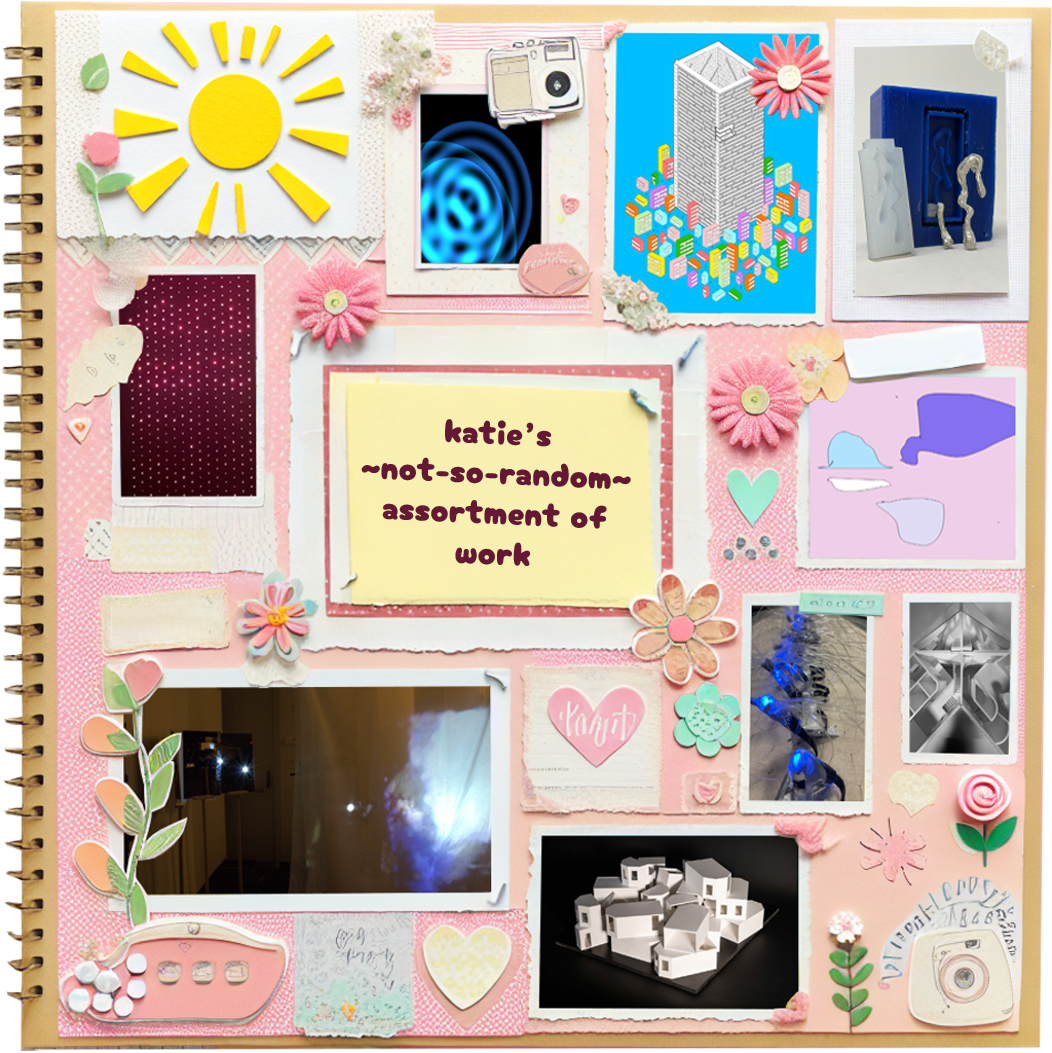
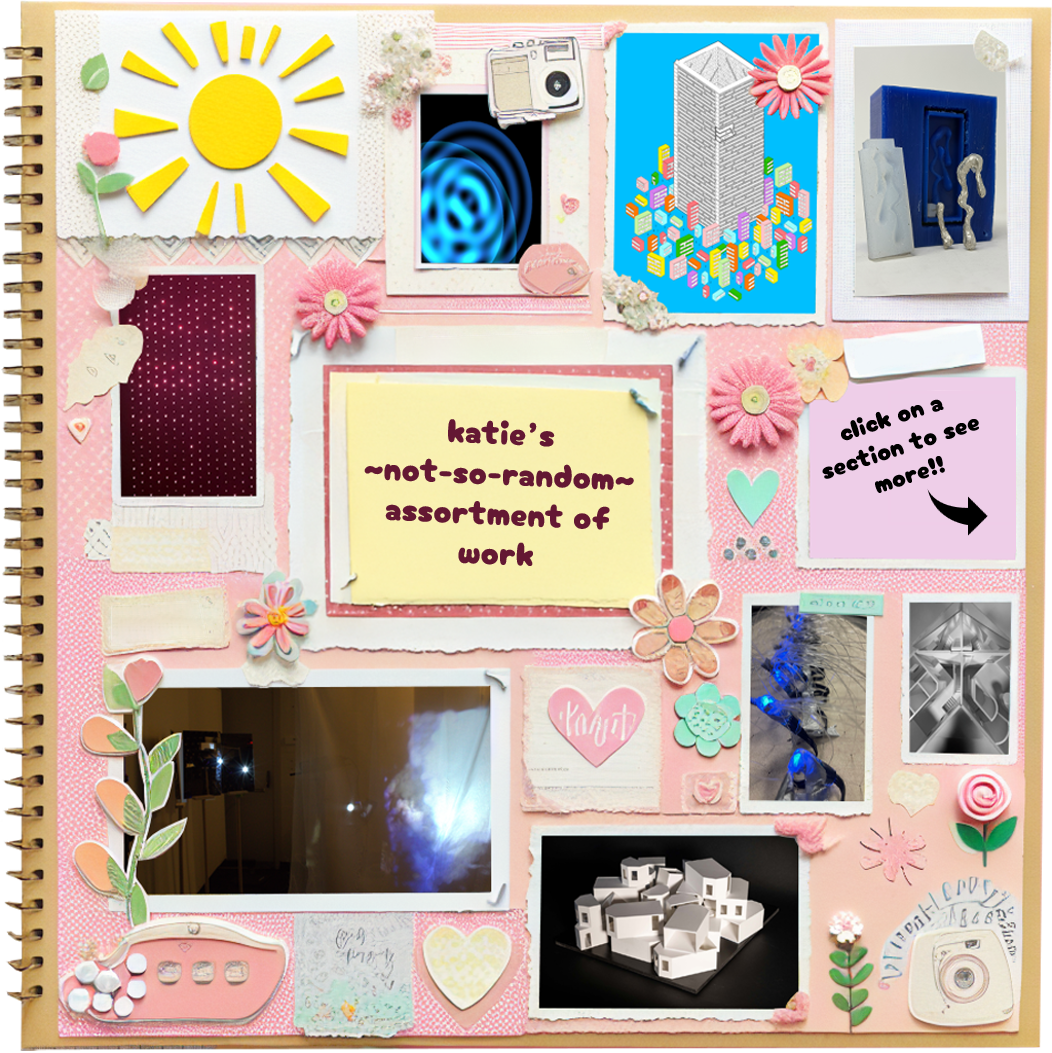
ok fixed some more glitches

Changed region(s): [[0.3346, 0.3951, 0.5779, 0.547], [0.7605, 0.3647, 0.9734, 0.5166]]

diff --git a/proceduraldesign.html b/proceduraldesign.html
@@ -14,6 +14,23 @@
     <link rel="stylesheet" href="assets/css/girly.css">
     <link rel="stylesheet" href="https://cdnjs.cloudflare.com/ajax/libs/font-awesome/4.7.0/css/font-awesome.min.css">
     <!-- END: Styles -->
+    <style>
+        /* Block all interactions on the page */
+        #main {
+            pointer-events: none; /* Disable clicks for everything inside */
+        }
+        
+        /* Re-enable interactions only for dependent images */
+        .dependent-image {
+            pointer-events: auto; /* Make dependent images clickable */
+        }
+        
+        /* Ensure dependent images' links are clickable */
+        .dependent-image a {
+            pointer-events: auto;
+        }
+        </style>
+        
 </head>
 
 <body >
@@ -44,15 +61,28 @@
     <div id="main" class="pinkcontainer">
 
         <div class="image-wrapper">
-            <!-- The reference image -->
-            <img src="assets/images/portfolio_cover.png" class="dynamic-image reference-image" style = "z-index: 100;">
-    
-            <!-- Other images positioned relative to the reference image -->
-            <a href = "personal_favs.html"><img src="assets/images/personal_favs.png" class="dynamic-image dependent-image"></a>
-            <a href = "web_apps.html"><img src="assets/images/web_apps.png" class="dynamic-image dependent-image"></a>
-            <a href = "index.html"><img src="assets/images/digital_fab.png" class="dynamic-image dependent-image"></a>
-            <a href = "interactive_exhibits.html"><img src="assets/images/interactive_exhibits.png" class="dynamic-image dependent-image"></a>
-            <a href = "index.html"><img src="assets/images/arch.png" class="dynamic-image dependent-image"></a>
+            <!-- Reference Canvas -->
+            <canvas id="reference-canvas" style="position: absolute; top: 0; left: 0; pointer-events:none;"></canvas>
+
+            <!-- The Reference Image -->
+            <img src="assets/images/portfolio_cover.png" class="dynamic-image reference-image" alt="Reference Image" style="z-index: 10000; pointer-events:none;">
+
+            <!-- Dependent Images -->
+            <a href="personal_favs.html" >
+                <img src="assets/images/personal_favs.png" class="dynamic-image dependent-image" alt="Dependent Image">
+            </a>
+            <a href="web_apps.html">
+                <img src="assets/images/web_apps.png" class="dynamic-image dependent-image" alt="Dependent Image">
+            </a>
+            <a href="digital_fabrication.html">
+                <img src="assets/images/digital_fab.png" class="dynamic-image dependent-image" alt="Dependent Image">
+            </a>
+            <a href="interactive_exhibits.html">
+                <img src="assets/images/interactive_exhibits.png" class="dynamic-image dependent-image" alt="Dependent Image">
+            </a>
+            <a href="architecture.html">
+                <img src="assets/images/arch.png" class="dynamic-image dependent-image" alt="Dependent Image">
+            </a>
         </div>
     </div>
     

diff --git a/assets/js/preload.js b/assets/js/preload.js
@@ -1,9 +1,10 @@
 document.addEventListener("DOMContentLoaded", function () {
     const preloader = document.getElementById("preloader");
     const loadingText = document.getElementById("loading-text");
+    const pageKey = "hasRefreshed_" + window.location.pathname;
+    const startTime = performance.now(); // Track when loading starts
 
     let dotCount = 0;
-    const pageKey = "hasRefreshed_" + window.location.pathname;
 
     // Animate dots while preloading
     const dotAnimation = setInterval(() => {
@@ -11,23 +12,35 @@ document.addEventListener("DOMContentLoaded", function () {
         loadingText.textContent = "loading" + ".".repeat(dotCount);
     }, 100);
 
-    // Check if the page has been refreshed before
-    if (!sessionStorage.getItem(pageKey)) {
-        console.log(`🔄 First visit to ${window.location.pathname}, refreshing now...`);
-        sessionStorage.setItem(pageKey, "true"); // Mark it as refreshed
-        location.reload(); // Refresh immediately before removing preloader
-    } else {
-        console.log(`✅ ${window.location.pathname} has already been refreshed, skipping refresh.`);
-        
-        window.onload = function () {
-            console.log("Page fully loaded after refresh! Removing preloader...");
-            clearInterval(dotAnimation);
-            preloader.classList.add("preloader-hidden");
+    window.onload = function () {
+        const loadTime = performance.now() - startTime; // Calculate total load time
+        console.log(`Page loaded in ${loadTime.toFixed(2)}ms`);
 
-            setTimeout(() => {
-                preloader.style.display = "none"; // Remove preloader from DOM
-                console.log("Preloader removed. Page is now visible.");
-            }, 500); // Smooth transition for preloader removal
-        };
-    }
+        // If load time is < 500ms, hide preloader immediately
+        if (loadTime < 500) {
+            console.log("Fast load detected, skipping preloader...");
+            preloader.style.display = "none";
+            clearInterval(dotAnimation);
+            return;
+        }
+
+        // Remove preloader smoothly
+        clearInterval(dotAnimation);
+        preloader.classList.add("preloader-hidden");
+
+        setTimeout(() => {
+            preloader.style.display = "none"; // Remove preloader from DOM
+            console.log("Preloader removed. Page is visible.");
+
+            // Check if *this specific page* has already refreshed
+            if (!sessionStorage.getItem(pageKey)) {
+                sessionStorage.setItem(pageKey, "true"); // Mark this page as refreshed
+
+                console.log(`🔄 Refreshing ${window.location.pathname} now after preloader disappears...`);
+                location.reload(); // Force a visible refresh
+            } else {
+                console.log(`✅ ${window.location.pathname} has already been refreshed once, skipping refresh.`);
+            }
+        }, 500); // Smooth transition for preloader removal
+    };
 });

diff --git a/assets/js/ref_image.js b/assets/js/ref_image.js
@@ -78,12 +78,13 @@ document.addEventListener("DOMContentLoaded", function () {
         });
 
         // Position dependent images relative to each other
+        
         let cumulativeHeight = -0.39 * referenceImage.clientHeight;
         let cumulativeWidth = 0;
 
         dependentImages.forEach((image) => {
             image.style.position = "relative";
-            image.style.top = `${cumulativeHeight}px`;
+            image.style.top = `${cumulativeHeight+0.05*referenceImage.clientHeight}px`;
             image.style.left = `-${cumulativeWidth + 0.005 * referenceImage.clientWidth}px`;
             image.style.height = `${0.17 * referenceImage.clientHeight}px`;
 

diff --git a/assets/css/girly.css b/assets/css/girly.css
@@ -516,6 +516,7 @@ html, body {
     overflow: hidden; 
 }
 
+
 .dynamic-image {
     max-width: 80vw; 
     max-height: 90vh; 
